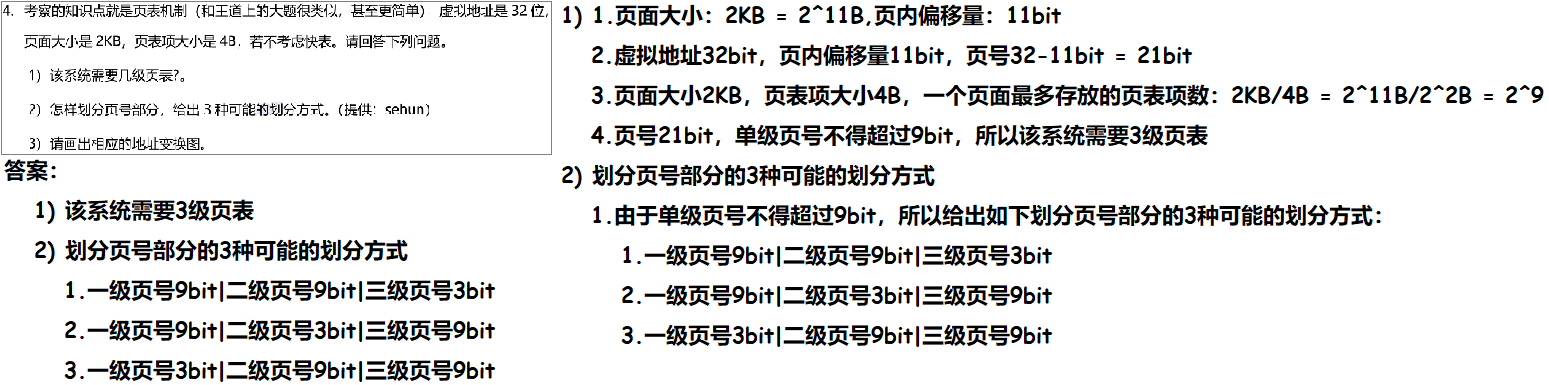
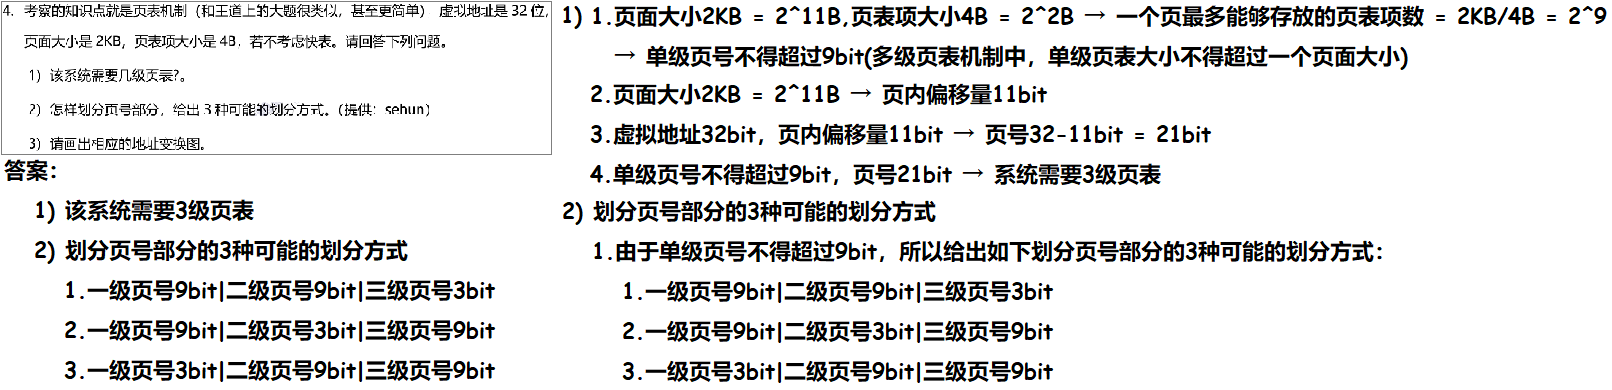
240825

diff --git a/01 初试/01 OS/01 题集/01 820 62 = 9 + 5 +11 +21 +16/04 21 21 = 8 + 13/02 大题 13/01 简答题 13/04 简答题04 多级页表 地址变换图 240818 5/01 21820/02 Doc.md b/01 初试/01 OS/01 题集/01 820 62 = 9 + 5 +11 +21 +16/04 21 21 = 8 + 13/02 大题 13/01 简答题 13/04 简答题04 多级页表 地址变换图 240818 5/01 21820/02 Doc.md
@@ -1,3 +1,9 @@
+# 00 背诵
+
+<img src="https://cvp.oss-cn-shanghai.aliyuncs.com/202408251128784.png" alt="image-20240825112851568" style="zoom:50%;" />
+
+
+
 # 01 题目
 
 <img src="https://cvp.oss-cn-shanghai.aliyuncs.com/picgo/202402261240927.png" alt="image-20240226124005807" style="zoom:50%;" />
@@ -6,7 +12,7 @@
 
 # 02 答案
 
-<img src="https://cvp.oss-cn-shanghai.aliyuncs.com/202408180835460.png" alt="image-20240818083508380" style="zoom:50%;" />
+<img src="https://cvp.oss-cn-shanghai.aliyuncs.com/202408251155719.png" alt="image-20240825115506653" style="zoom:50%;" />
 
 
 
